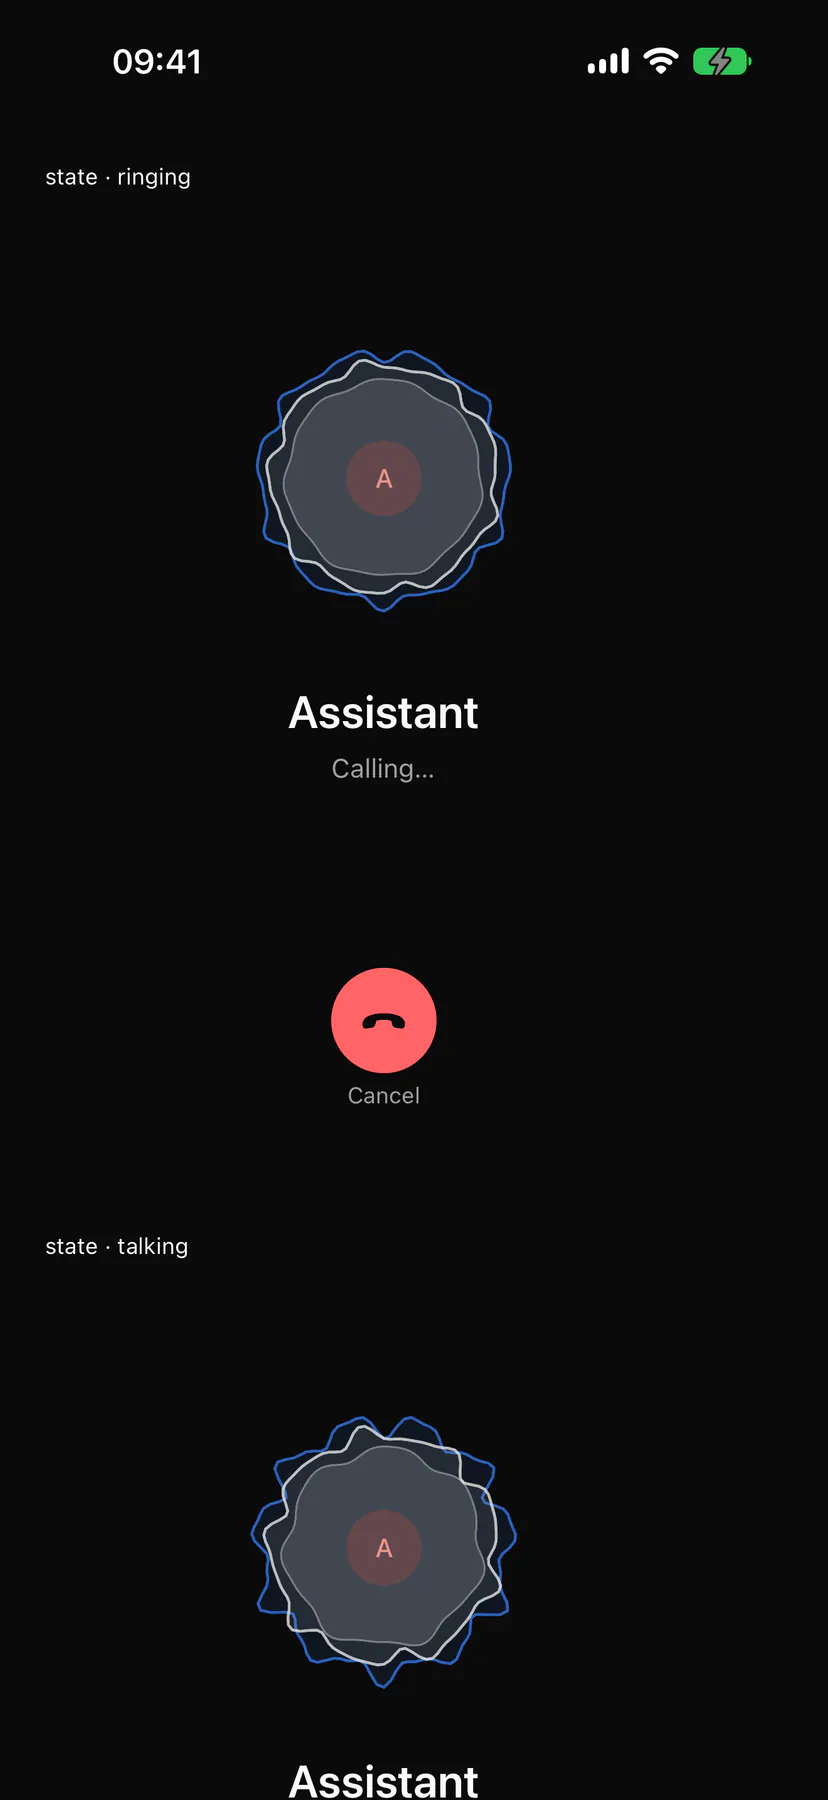
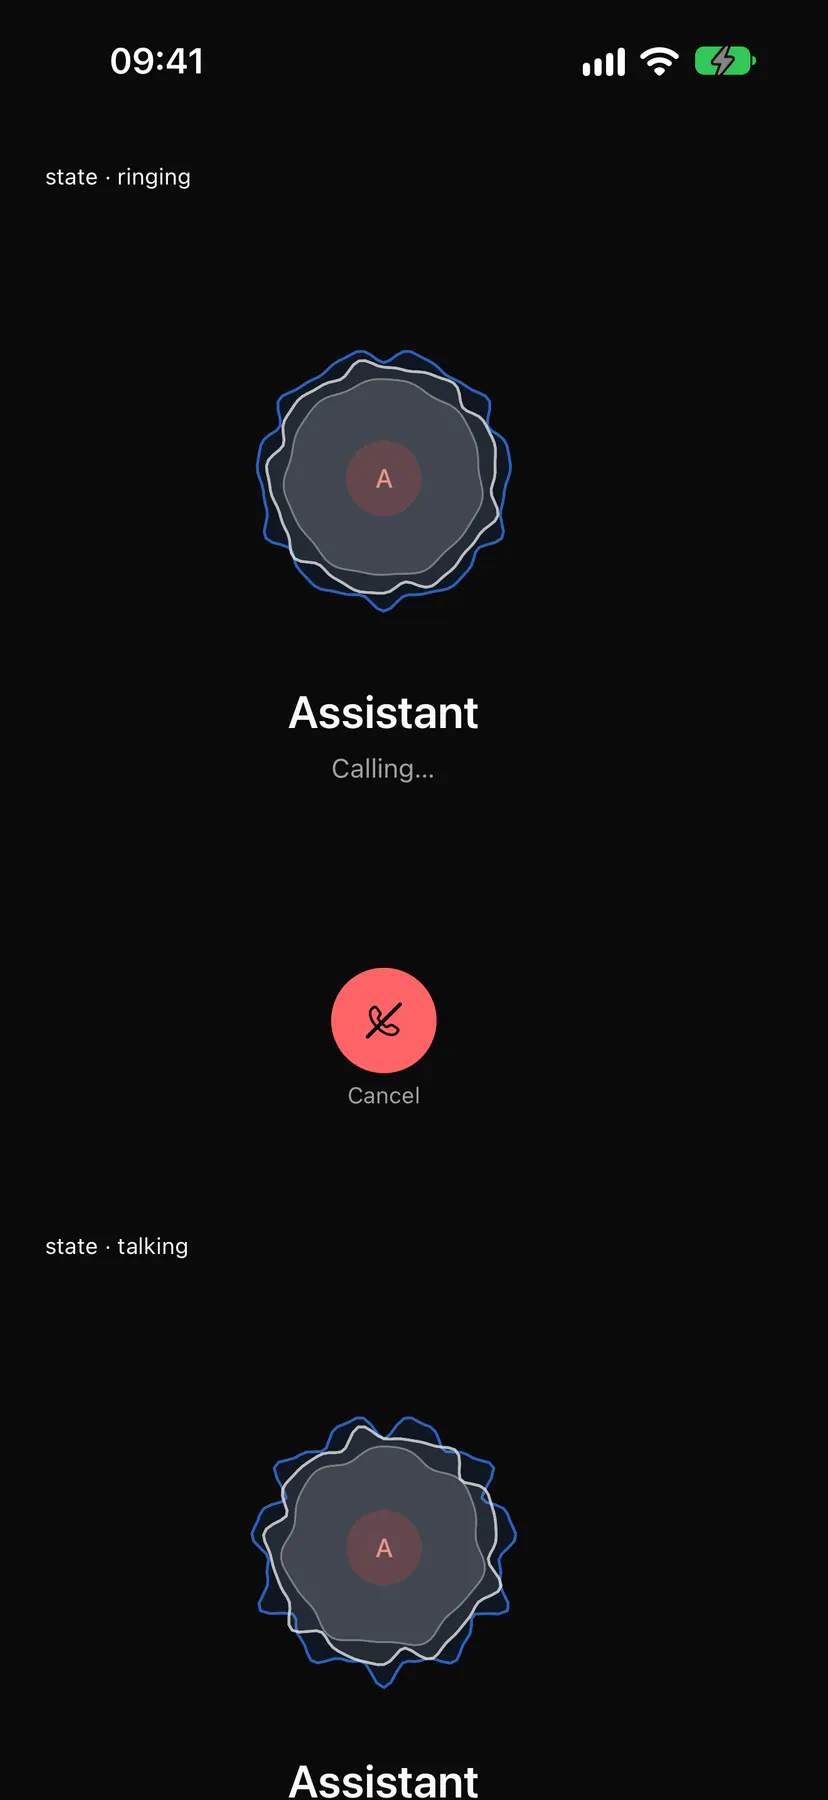
VAPP-164 + VAPP-165c: SwiftUI labels paint at the measured width, bar captions measured at the selected weight; iOS shots
- Bar captions measured at the heaviest of base / label / selected weight
- Button/Toggle, Tabs, Accordion labels paint with TextKit at the measured
  TextShaper width (MeasuredLabel) instead of a self-sizing SwiftUI Text
- iOS shots: exponential-ui-segmented (full-width bar), call-surface
  (PhoneOffMark from #1353), kitchen-sink

diff --git a/packages/exponential-ui-swift/Sources/ExponentialUI/Views/Leaves/LeafContent.swift b/packages/exponential-ui-swift/Sources/ExponentialUI/Views/Leaves/LeafContent.swift
@@ -206,9 +206,9 @@ struct TabLeaf: View {
                 if let icon = cx.props["icon"]?.string {
                     ConceptIcon(name: icon, size: 16, color: cx.ink, model: cx.model)
                 }
-                Text(cx.textStyle.shown(cx.props.text("text"))).font(cx.font).foregroundStyle(cx.ink).lineLimit(1)
+                MeasuredLabel(text: cx.props.text("text"), ts: cx.textStyle, color: cx.ink)
                 if let count = cx.props["count"] {
-                    Text(count.displayText).font(cx.font).foregroundStyle(cx.themeColor("mutedForeground") ?? cx.ink).lineLimit(1)
+                    MeasuredLabel(text: count.displayText, ts: cx.textStyle, color: cx.themeColor("mutedForeground") ?? cx.ink)
                 }
             }
             .frame(width: cx.inner.width, height: cx.inner.height)
@@ -221,18 +221,37 @@ struct TabLeaf: View {
     }
 }
 
+/// A one-line label inside a control's row (a Button / Toggle label, a
+/// tab, an Accordion title, their counts): the TextKit label at the width
+/// the measurer gave it (`TextShaper.width`, tracking included), one line
+/// box tall. A SwiftUI `Text` sizes itself in its own pass (pixel-ceiled,
+/// no inherited tracking) and truncated a label that fit as measured
+/// (VAPP-164, the Segmented "Boa…" class). It still shrinks, truncating,
+/// when the row is given less than its width.
+struct MeasuredLabel: View {
+    let text: String
+    let ts: TextStyle
+    let color: Color
+
+    var body: some View {
+        TextLabel(text, ts, color: color, lines: 1)
+            .frame(maxWidth: TextShaper.width(ts.shown(text), ts))
+            .frame(height: ts.lineHeight)
+    }
+}
+
 /// An Accordion `trigger`: title (+ count) and a chevron that turns open.
 struct AccordionTriggerLeaf: View {
     let cx: LeafContext
 
     var body: some View {
-        let title = cx.textStyle.shown(cx.props.text("text"))
+        let title = cx.props.text("text")
         // Round 2 §7: the count is its own muted part after the title.
         return HStack(spacing: max(cx.style.gap, 8)) {
             HStack(spacing: 8) {
-                Text(title).font(cx.font).foregroundStyle(cx.ink).lineLimit(1)
+                MeasuredLabel(text: title, ts: cx.textStyle, color: cx.ink)
                 if let count = cx.props["count"] {
-                    Text(count.displayText).font(cx.font).foregroundStyle(cx.themeColor("mutedForeground") ?? cx.ink).lineLimit(1)
+                    MeasuredLabel(text: count.displayText, ts: cx.textStyle, color: cx.themeColor("mutedForeground") ?? cx.ink)
                 }
             }
             Spacer(minLength: 0)
@@ -298,7 +317,7 @@ struct ButtonLeaf: View {
                 ConceptIcon(name: "", size: iconSize, color: cx.ink, model: cx.model)
             }
             if !iconOnly, !label.isEmpty {
-                Text(cx.textStyle.shown(label)).font(cx.font).foregroundStyle(cx.ink).lineLimit(1)
+                MeasuredLabel(text: label, ts: cx.textStyle, color: cx.ink)
             }
         }
         .frame(width: cx.inner.width, height: cx.inner.height)

diff --git a/packages/exponential-ui-swift/Tests/ExponentialUITests/Round1NativesTests.swift b/packages/exponential-ui-swift/Tests/ExponentialUITests/Round1NativesTests.swift
@@ -536,6 +536,34 @@ final class Round1NativesTests: XCTestCase {
         XCTAssertEqual(size.width, expected, accuracy: 0.5)
     }
 
+    /// VAPP-164: a `bar` caption is measured at the weight its SELECTED
+    /// state paints (`Segmented/label` selected: medium in neutral, bold in
+    /// playful), so selecting an item never needs more room than measured.
+    func testSegmentedBarMeasuresCaptionsAtTheSelectedWeight() throws {
+        let items: JSONValue = .array([
+            .object(["label": .string("Overview"), "value": .string("a")]),
+            .object(["label": .string("Settings"), "value": .string("b")]),
+        ])
+        let props: Props = ["items": items, "variant": .string("bar")]
+        for (id, weight) in [("neutral", 500), ("playful", 700)] {
+            let theme = try XCTUnwrap(ThemeHandle.builtin(id))
+            let selected = theme.part("Segmented", "label", props: props, states: ["selected"], mode: .light)
+            XCTAssertEqual(SurfaceMeasurer.barLabelWeight(base: 400, label: theme.part("Segmented", "label", props: props, mode: .light), selected: selected), weight, id)
+            let measurer = SurfaceMeasurer(theme: theme, mode: .light, extensions: ExtensionRegistry(), kinds: [:], generation: 0)
+            let size = measurer.measureLeaf(LeafRequest(component: "Segmented", props: props, textStyle: TextStyle(fontSize: 14, fontWeight: 400, lineHeight: 20, fontFamily: theme.sansFamily)), wrap: nil)
+            var caption = SurfaceMeasurer.barCaption(theme.part("Text", "root", props: ["variant": .string("caption")], mode: .light), base: TextStyle(fontSize: 14, fontWeight: 400, lineHeight: 20, fontFamily: theme.sansFamily))
+            caption.fontWeight = weight
+            let xs = theme.spacing("xs")
+            let expected = ["Overview", "Settings"].reduce(CGFloat(0)) { $0 + TextShaper.maxContent($1, caption) + 2 * xs }
+            XCTAssertEqual(size.width, expected, accuracy: 0.01, id)
+            caption.fontWeight = 400
+            let regular = ["Overview", "Settings"].reduce(CGFloat(0)) { $0 + TextShaper.maxContent($1, caption) + 2 * xs }
+            // (The test fonts may shape 500 as wide as 400; bold is wider.)
+            XCTAssertGreaterThanOrEqual(size.width, regular, "\(id): never narrower than the regular-weight captions")
+            if weight >= 700 { XCTAssertGreaterThan(size.width, regular, id) }
+        }
+    }
+
     /// `Menu openOn: contextmenu`: the ONE child is the region; a secondary
     /// click / long press there opens the core's menu layer at the pointer;
     /// a press Menu with no child synthesizes its outline Button trigger.

diff --git a/packages/exponential-ui-swift/Sources/ExponentialUI/Measure/SurfaceMeasurer.swift b/packages/exponential-ui-swift/Sources/ExponentialUI/Measure/SurfaceMeasurer.swift
@@ -635,7 +635,12 @@ final class SurfaceMeasurer: Measurer, @unchecked Sendable {
     /// min-content width = the widest of icon and label per item, plus `xs`
     /// on both sides (gpui `segmented_bar`).
     private func segmentedBar(_ leaf: LeafRequest) -> CGSize {
-        let ts = Self.barCaption(part("Text", "root", ["variant": .string("caption")]), base: leaf.textStyle)
+        // VAPP-164: `SegmentedLeaf.barItem` paints a caption in its
+        // `Segmented/label` weight (the selected one heavier, 500 in
+        // neutral); measure every caption at the heaviest so a selection
+        // never needs more room than was measured (gpui `segmented_bar`).
+        var ts = Self.barCaption(part("Text", "root", ["variant": .string("caption")]), base: leaf.textStyle)
+        ts.fontWeight = Self.barLabelWeight(base: ts.fontWeight, label: part("Segmented", "label", leaf.props), selected: part("Segmented", "label", leaf.props, ["selected"]))
         let icon = control("iconMd", 20)
         let pad = spacing("xs")
         var w: CGFloat = 0
@@ -646,6 +651,12 @@ final class SurfaceMeasurer: Measurer, @unchecked Sendable {
             w += max(lw, iw) + 2 * pad
         }
         return CGSize(width: w, height: control("tabBar", 56))
+    }
+
+    /// The weight a `bar` caption is MEASURED at: the heaviest of the base,
+    /// the `label` part's and its `selected` state's weight.
+    static func barLabelWeight(base: Int, label: PartStyle, selected: PartStyle) -> Int {
+        [label, selected].compactMap { $0.props.num("fontWeight").map { Int($0) } }.reduce(base, max)
     }
 
     /// VAPP-162 (round-5 contract §3): THE navigation rail (a vertical
